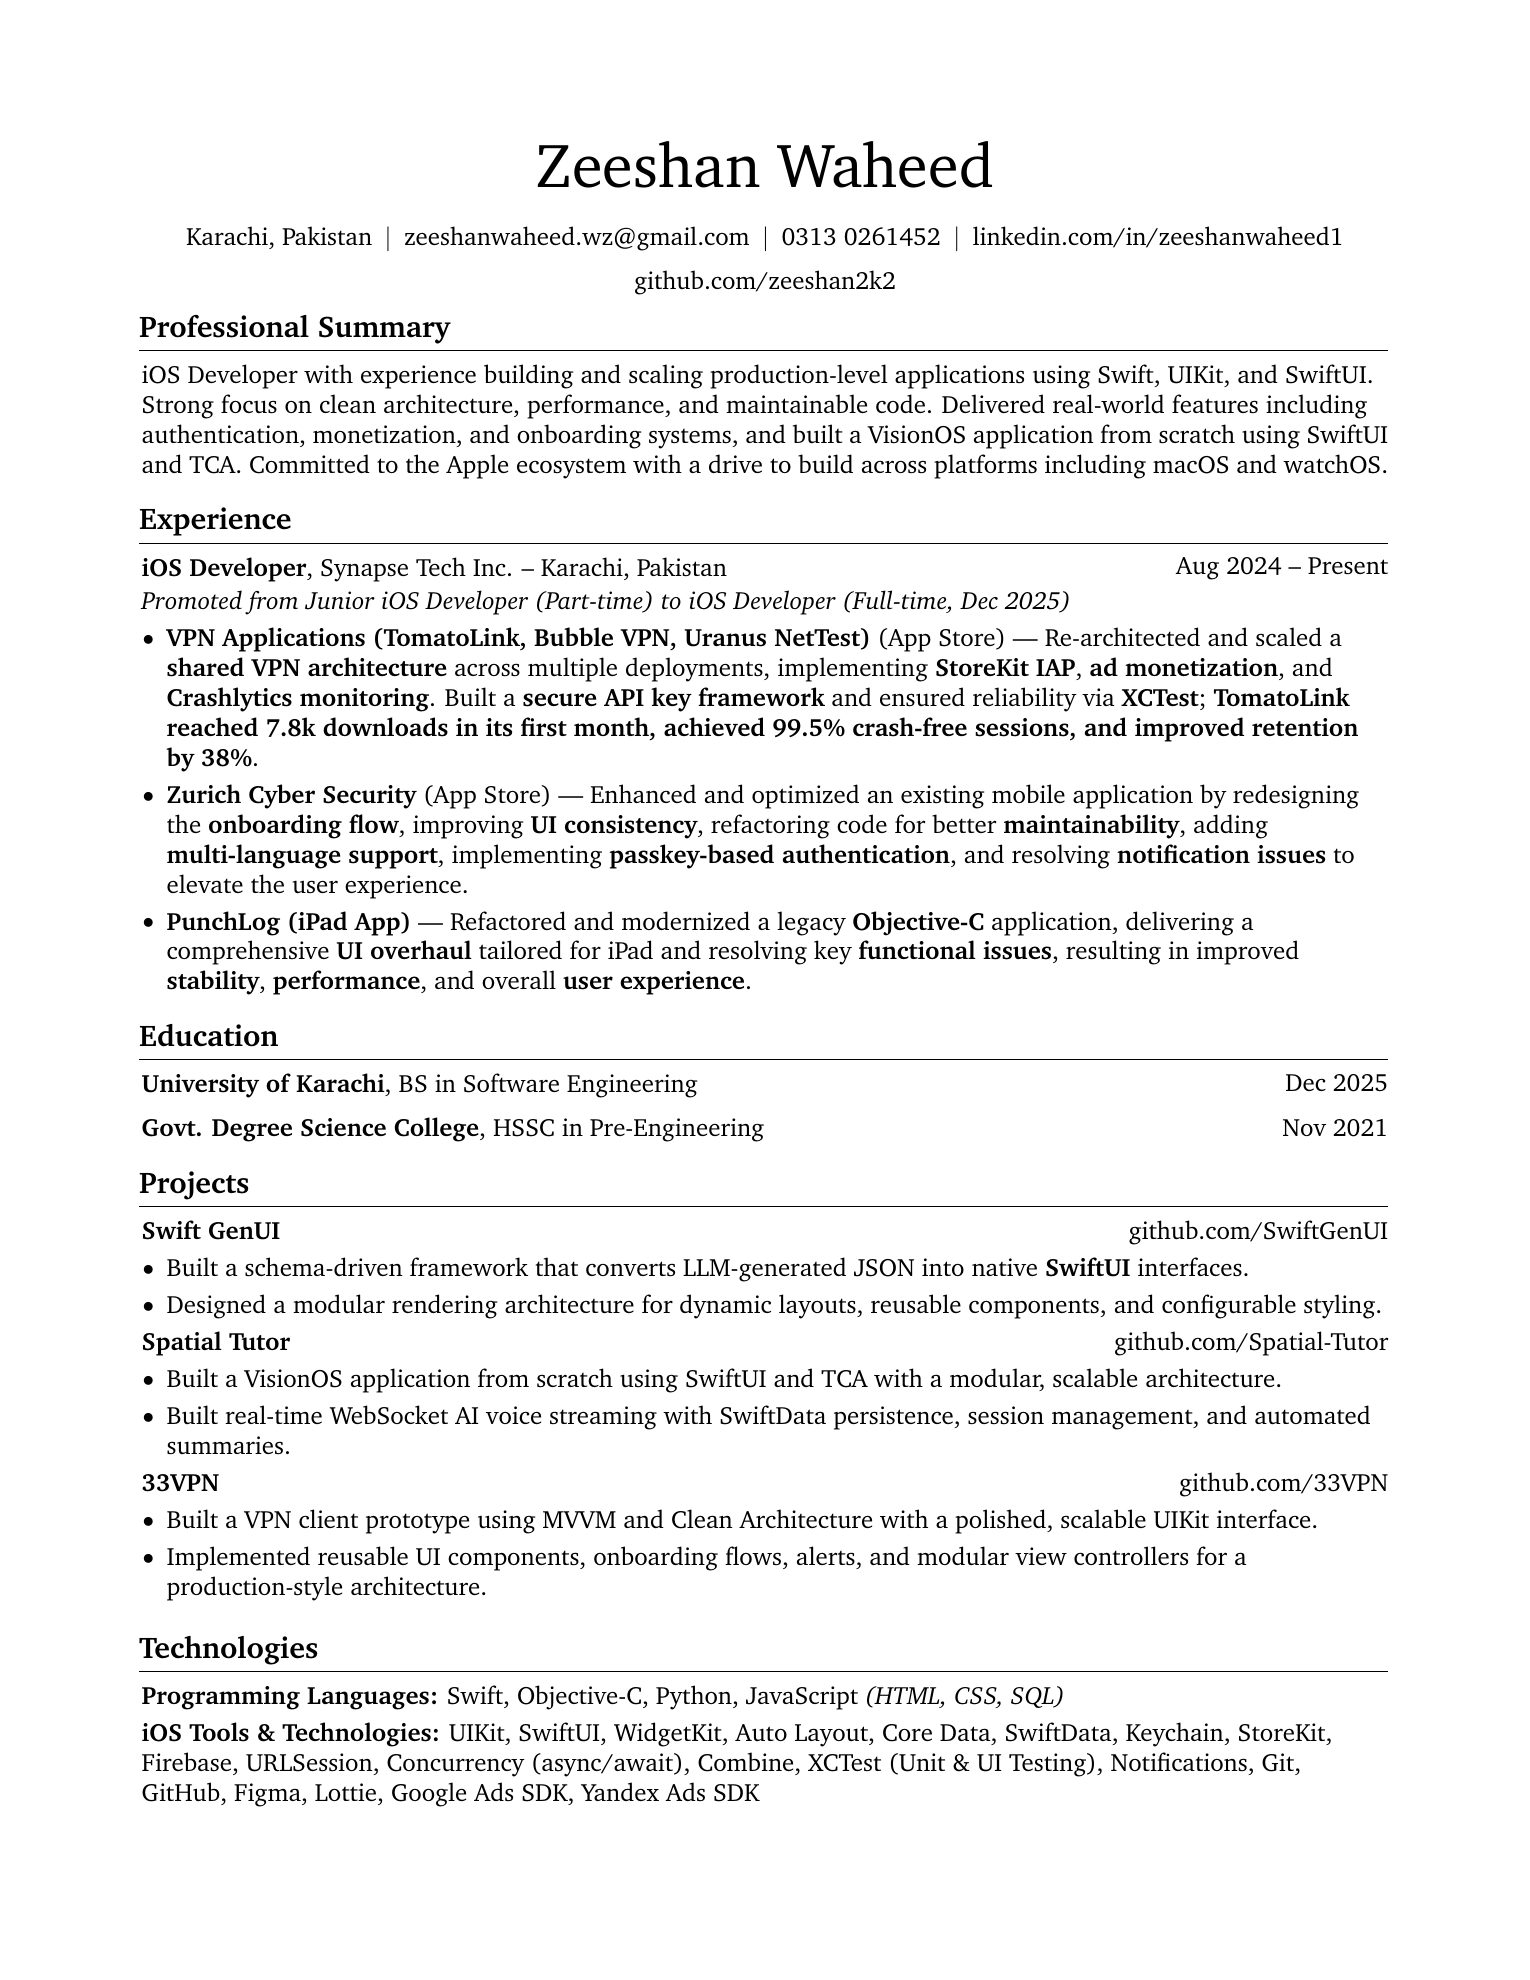
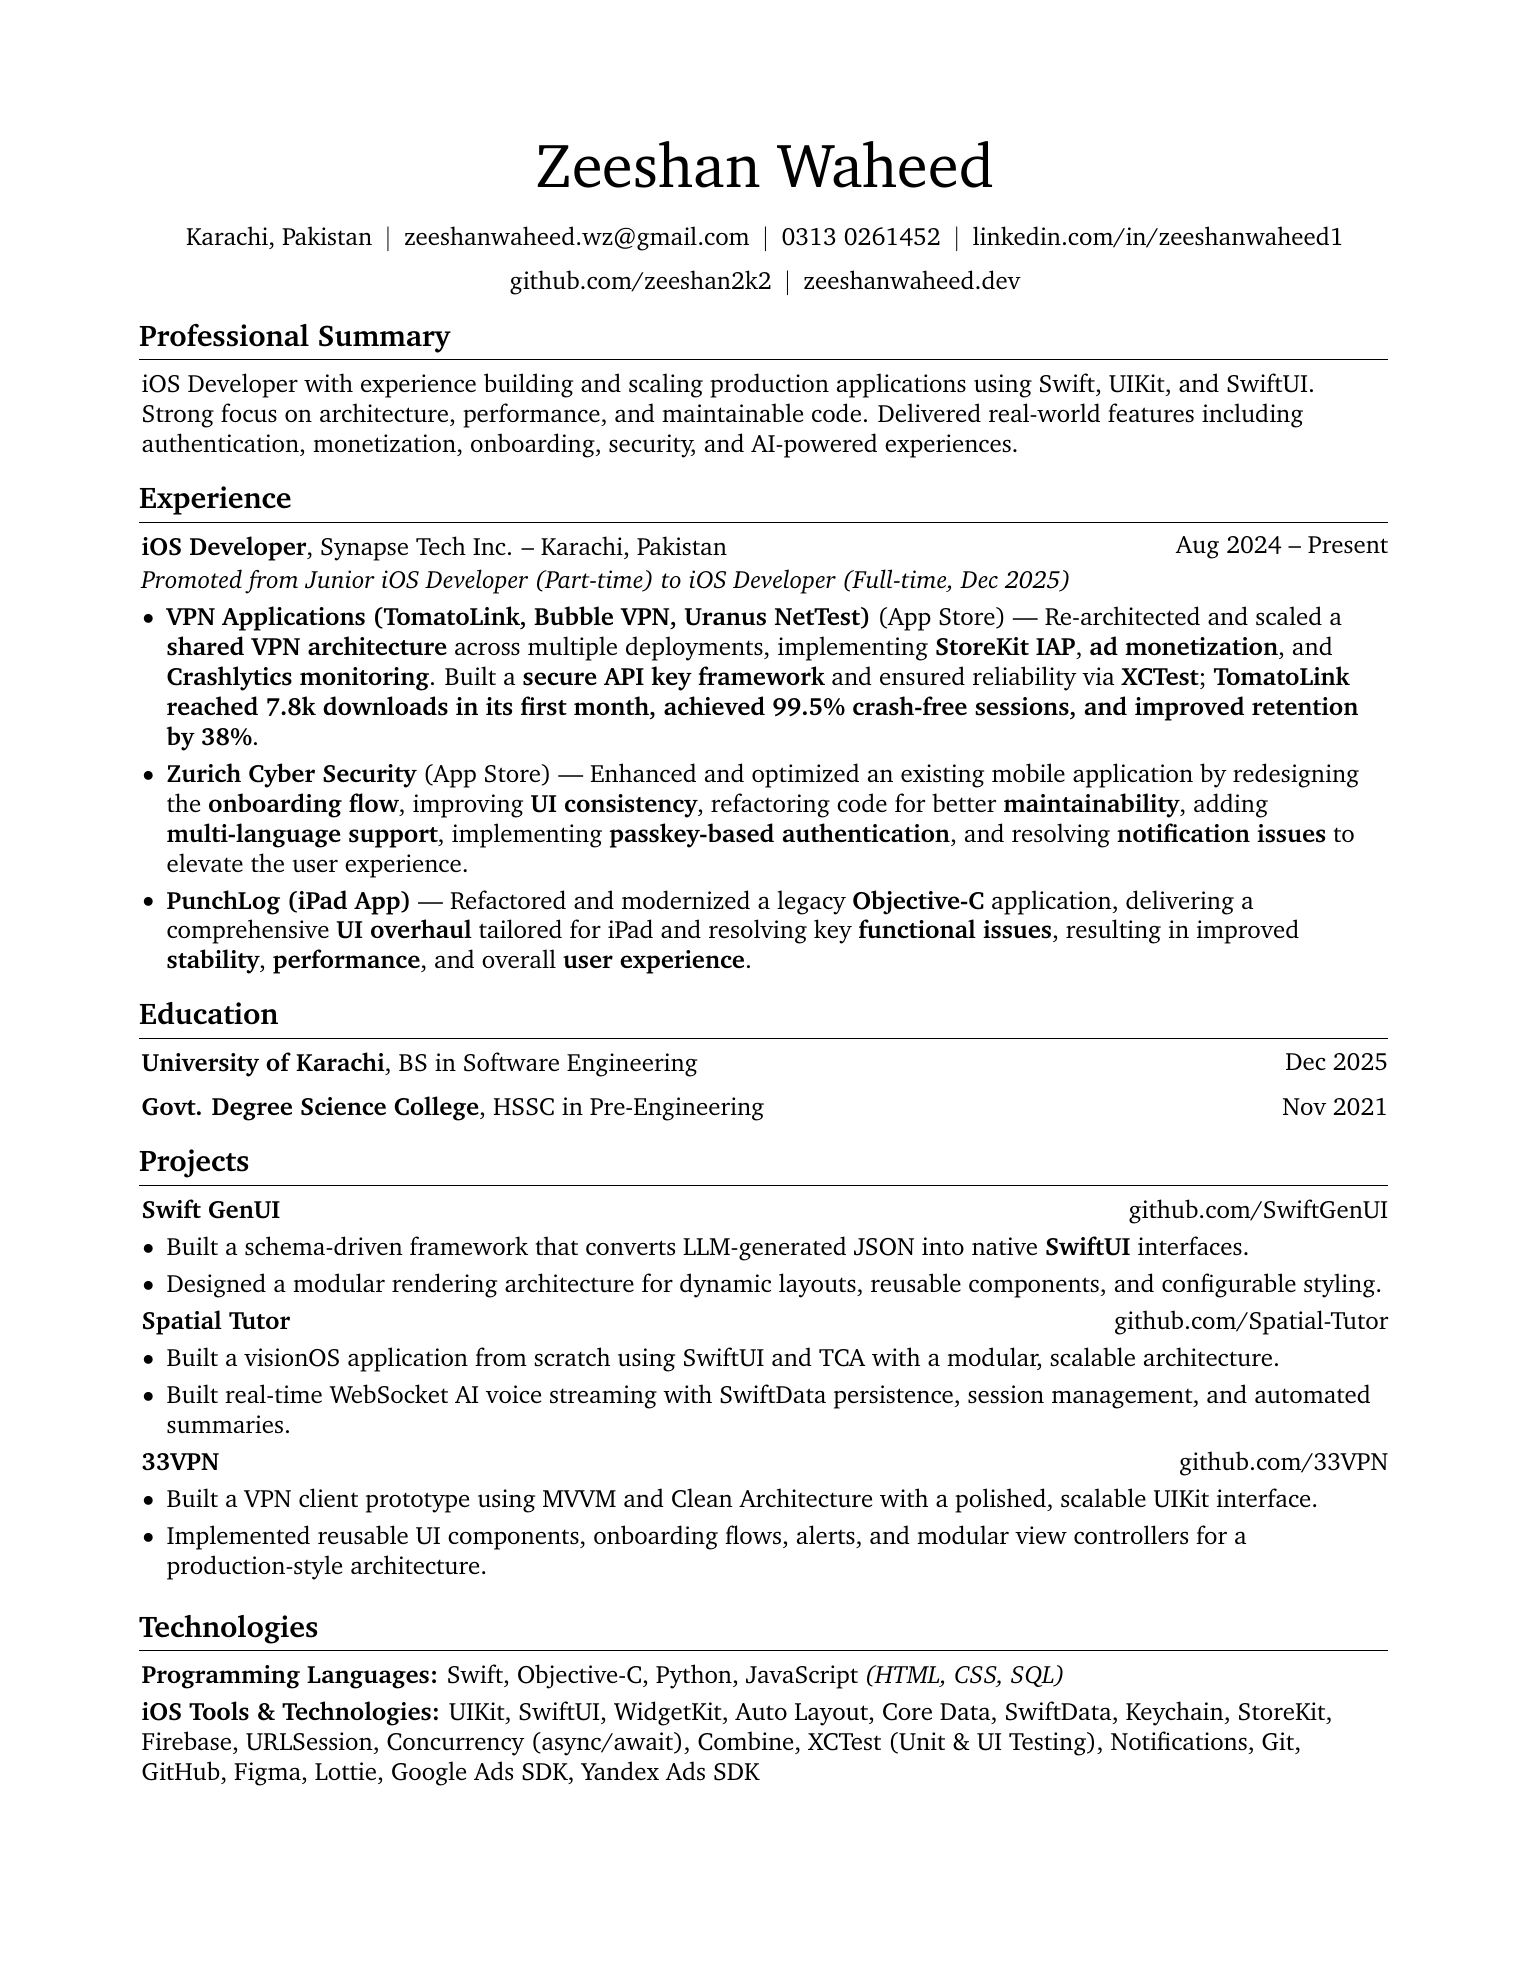
seo improvements

Changed region(s): [[0.0922, 0.154, 0.9216, 0.9242], [0.3993, 0.1232, 0.6451, 0.154], [0.3379, 0.1232, 0.3686, 0.154]]

diff --git a/app/layout.tsx b/app/layout.tsx
@@ -6,6 +6,43 @@ import { DeviceShell } from "@/components/device/DeviceShell";
 
 import "./globals.css";
 
+const personJsonLd = {
+  "@context": "https://schema.org",
+  "@type": "Person",
+  name: "Zeeshan Waheed",
+  url: "https://zeeshanwaheed.dev",
+  image: "https://zeeshanwaheed.dev/opengraph-image",
+  jobTitle: "iOS Developer",
+  address: {
+    "@type": "PostalAddress",
+    addressLocality: "Karachi",
+    addressCountry: "PK",
+  },
+  sameAs: [
+    "https://github.com/zeeshan2k2",
+    "https://linkedin.com/in/zeeshanwaheed1",
+    "https://x.com/zeeshanwaheed",
+  ],
+  knowsAbout: [
+    "iOS Development",
+    "Swift",
+    "UIKit",
+    "SwiftUI",
+    "visionOS",
+    "Apple Platforms",
+    "Local AI",
+  ],
+};
+
+const websiteJsonLd = {
+  "@context": "https://schema.org",
+  "@type": "WebSite",
+  name: "Zeeshan Waheed",
+  url: "https://zeeshanwaheed.dev",
+  description:
+    "Personal site for Zeeshan Waheed, an iOS developer building native apps, AI-powered tools, and polished Apple-platform products.",
+};
+
 export const metadata: Metadata = {
   metadataBase: new URL("https://zeeshanwaheed.dev"),
   title: {
@@ -16,6 +53,13 @@ export const metadata: Metadata = {
     "Personal portfolio for Zeeshan Waheed, an iOS developer building native apps, AI-powered tools, and polished Apple-platform products.",
   authors: [{ name: "Zeeshan Waheed" }],
   creator: "Zeeshan Waheed",
+  icons: {
+    icon: [
+      { url: "/icon.png", type: "image/png", sizes: "512x512" },
+      { url: "/favicon.png", type: "image/png", sizes: "512x512" },
+    ],
+    apple: [{ url: "/apple-icon.png", type: "image/png", sizes: "180x180" }],
+  },
   openGraph: {
     title: "Zeeshan Waheed | iOS Developer",
     description:
@@ -50,6 +94,12 @@ export default function RootLayout({
   return (
     <html lang="en">
       <body>
+        <script
+          type="application/ld+json"
+          dangerouslySetInnerHTML={{
+            __html: JSON.stringify([personJsonLd, websiteJsonLd]),
+          }}
+        />
         <DeviceShell>{children}</DeviceShell>
         <Analytics />
       </body>

diff --git a/app/sitemap.ts b/app/sitemap.ts
@@ -1,0 +1,15 @@
+import type { MetadataRoute } from "next";
+
+const siteUrl = "https://zeeshanwaheed.dev";
+
+export default function sitemap(): MetadataRoute.Sitemap {
+  const lastModified = new Date();
+  const routes = ["", "/about", "/projects", "/resume", "/feed"];
+
+  return routes.map((route) => ({
+    url: `${siteUrl}${route}`,
+    lastModified,
+    changeFrequency: route === "" ? "weekly" : "monthly",
+    priority: route === "" ? 1 : 0.8,
+  }));
+}

diff --git a/app/robots.ts b/app/robots.ts
@@ -1,0 +1,13 @@
+import type { MetadataRoute } from "next";
+
+const siteUrl = "https://zeeshanwaheed.dev";
+
+export default function robots(): MetadataRoute.Robots {
+  return {
+    rules: {
+      userAgent: "*",
+      allow: "/",
+    },
+    sitemap: `${siteUrl}/sitemap.xml`,
+  };
+}
